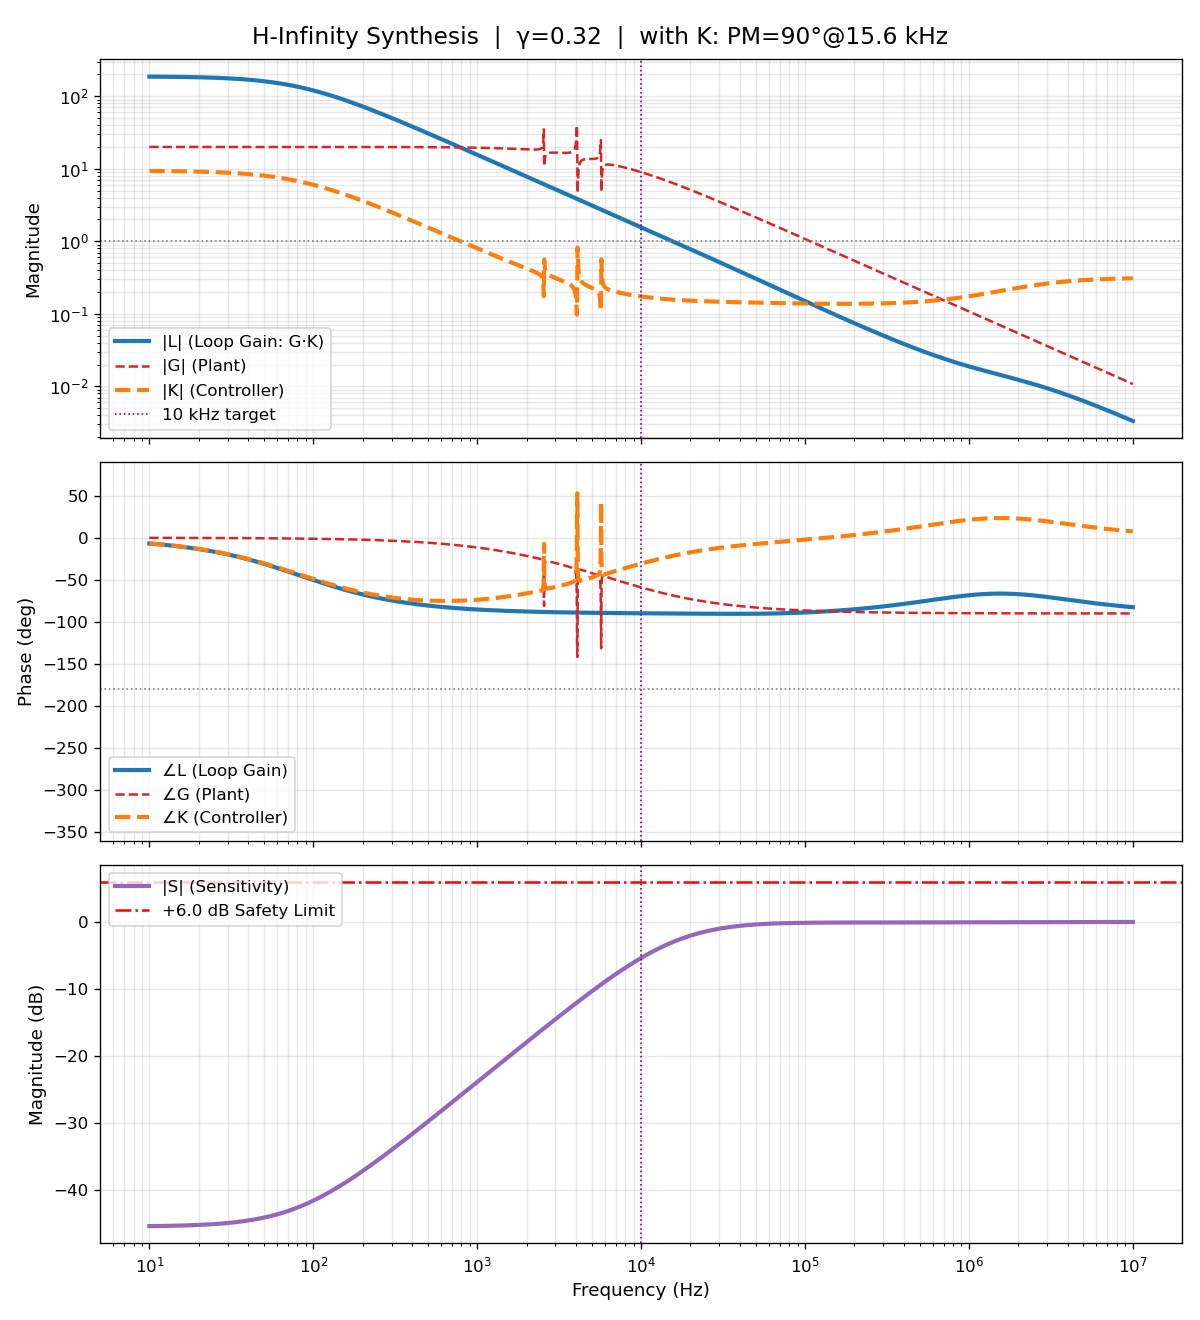
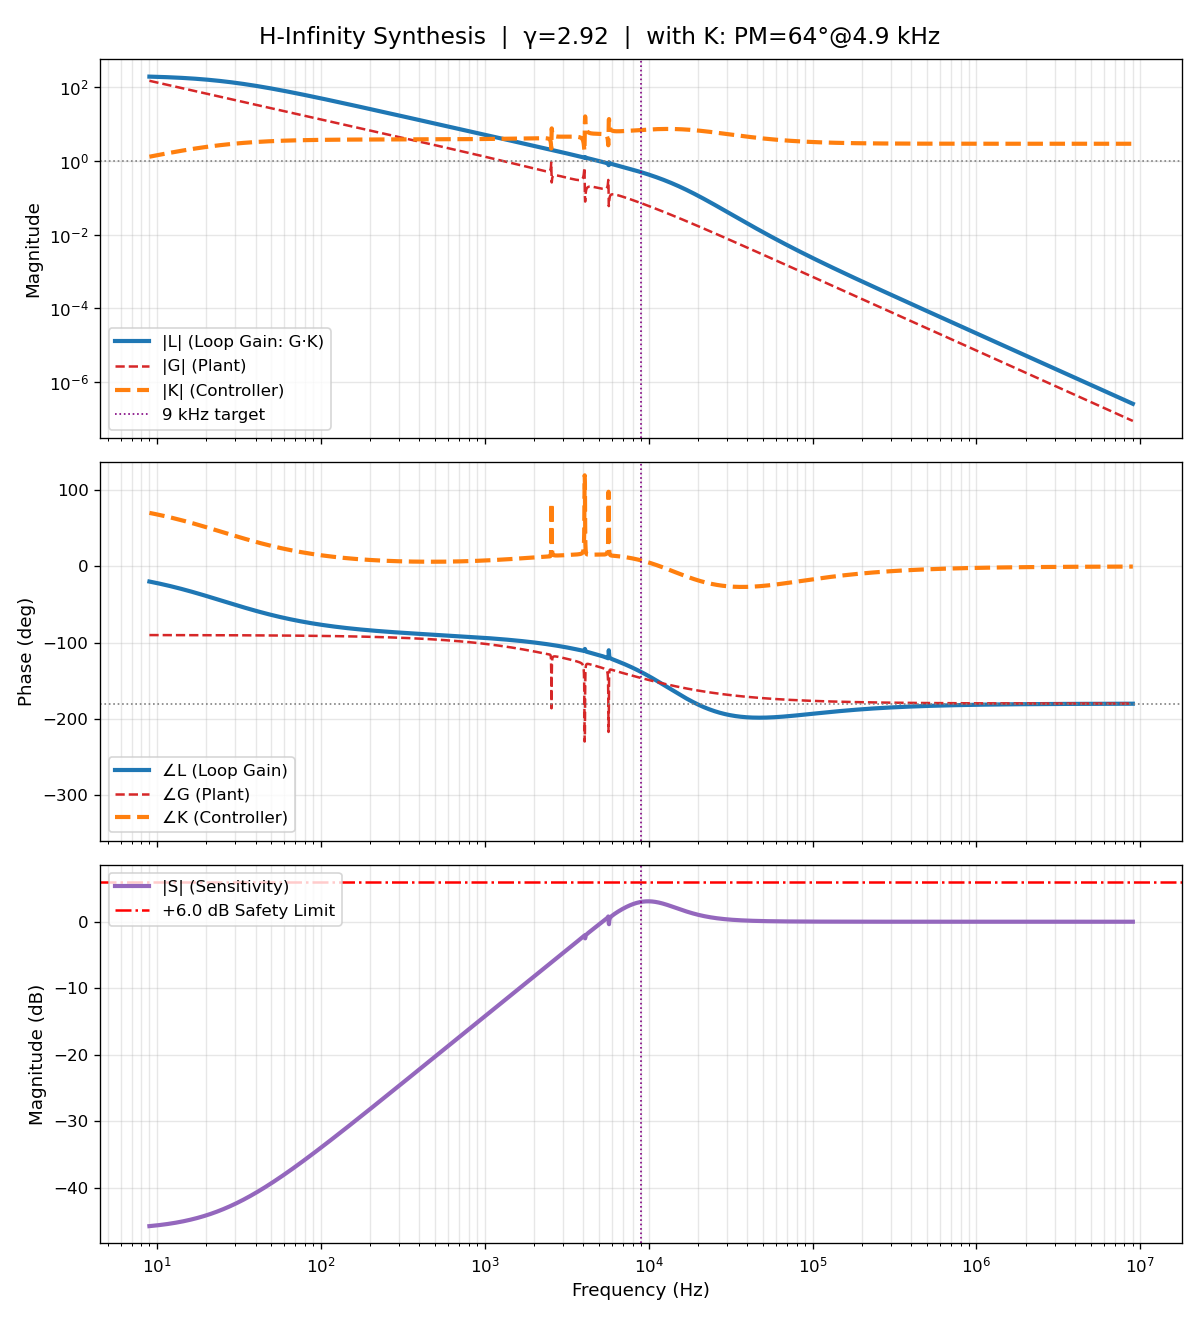
Added back integrating pole

diff --git a/scripts/add_controller.py b/scripts/add_controller.py
@@ -1,0 +1,86 @@
+import numpy as np
+import control as ct
+import matplotlib.pyplot as plt
+from scipy.signal import tf2zpk
+
+def load_plant_zpk(filename):
+    """Loads zeros, poles, and gain from the .npz file."""
+    try:
+        data = np.load(filename)
+        z = data['z']
+        p = data['p']
+        k = data['k']
+        return z, p, k
+    except Exception as e:
+        print(f"Error loading {filename}: {e}")
+        return None, None, None
+
+def main():
+    # 1. Load the measured plant data
+    filename = 'plant_only.npz'
+    z_plant, p_plant, k_plant = load_plant_zpk(filename)
+
+    if z_plant is None:
+        return
+
+    # Convert the raw ZPK data into a control.TransferFunction object
+    plant_sys = ct.zpk(z_plant, p_plant, k_plant)
+    print(f"--- Measured Plant ---")
+    print(plant_sys)
+
+    # 2. Define the Controller Parameters
+    Kp = 0.0       # Set to 0.0 to test the Pure Integrator mode
+    Ki = 51.0
+    epsilon = 1e-2 # Very slow pole to safely approximate a pure integrator
+
+    # 3. Formulate the ZPK based on Kp
+    if Kp == 0:
+        print("\n[Mode: Pure Integrator]")
+        # C(s) = Ki / (s + epsilon)
+        z_ctrl = []            # No zeros
+        p_ctrl = [-epsilon]    # Leaky pole at origin
+        k_ctrl = Ki            # Gain is exactly Ki
+    else:
+        print("\n[Mode: Proportional-Integral]")
+        # C(s) = Kp * (s + Ki/Kp) / (s + epsilon)
+        z_ctrl = [-Ki / Kp]    # Zero at -Ki/Kp
+        p_ctrl = [-epsilon]    # Leaky pole at origin
+        k_ctrl = Kp            # High frequency gain is Kp
+
+    # Build the controller system object
+    ctrl_sys = ct.zpk(z_ctrl, p_ctrl, k_ctrl)
+    print(f"--- Controller Model ---")
+    print(ctrl_sys)
+
+    # 4. Create the Effective Plant for Synthesis
+    # Multiply the transfer functions: P_eff(s) = C(s) * P(s)
+    effective_sys = ct.series(ctrl_sys, plant_sys)
+    print(f"\n--- Effective Plant (Controller * Plant) ---")
+    print(effective_sys)
+
+    num = effective_sys.num[0][0]
+    den = effective_sys.den[0][0]
+
+    z_eff, p_eff, k_eff = tf2zpk(num, den)
+    zeros = np.asarray(z_eff)
+    poles = np.asarray(p_eff)
+    gain = np.asarray(float(np.real(k_eff)))
+
+    output_filename = "plant_with_controller.npz"
+    np.savez(output_filename, z=zeros, p=poles, k=gain)
+    print(f"\nSaved effective plant ZPK to {output_filename}")
+
+    # 5. Visualize the results
+    plt.figure(figsize=(10, 8))
+
+    # Plot Bode for both the raw plant and the effective plant
+    ct.bode_plot([plant_sys, effective_sys],
+                 label=['Bare Plant', f'Effective Plant (Kp={Kp}, Ki={Ki})'],
+                 Hz=True, deg=True, margins=False)
+
+    plt.suptitle("Bode Plot: Bare Plant vs. Effective Plant")
+    plt.legend()
+    plt.show()
+
+if __name__ == "__main__":
+    main()

diff --git a/src/hinf_coeffs.h b/src/hinf_coeffs.h
@@ -1,22 +1,22 @@
 // hinf_coeffs.h — auto-generated by coeffs_analyze.py
-// Q3.29  5 sections  fs=0.9766 MHz  quant err -59.1 dB
+// Q5.27  5 sections  fs=0.9766 MHz  quant err -53.6 dB
 #ifndef HINF_COEFFS_H
 #define HINF_COEFFS_H
 #include <stdint.h>
 
 #define HINF_N_SECTIONS     5
-#define HINF_COEF_INT_BITS  3
-#define HINF_COEF_FRAC_BITS 29
-#define HINF_COEF_SCALE     536870912L
+#define HINF_COEF_INT_BITS  5
+#define HINF_COEF_FRAC_BITS 27
+#define HINF_COEF_SCALE     134217728L
 
 typedef struct { int32_t b0,b1,b2,a1,a2; } hinf_sos_t;
 
 static const hinf_sos_t HINF_SOS[5] = {
-    {   86312795,   -5602313,  -26801296,   81541389, -253401804},
-    {  536870912,-1038863054,  502480658,-1059561305,  522697839},
-    {  536870912,-1072909526,  536757049,-1072927322,  536781967},
-    {  536870912,-1073283254,  536778780,-1073293146,  536794485},
-    {  536870912,-1073560904,  536834585,-1073552977,  536827566}
+    {  430690198, -722845146,  297470385, -249002921,  115844469},
+    {  134217728, -265693130,  131475402, -264938155,  130720986},
+    {  134217728, -268227381,  134189262, -268229747,  134193577},
+    {  134217728, -268320814,  134194695, -268323438,  134198806},
+    {  134217728, -268390226,  134208646, -268388243,  134206890}
 };
 
 #endif

diff --git a/scripts/ctrl.py b/scripts/ctrl.py
@@ -38,6 +38,8 @@ def parse_args():
     p.add_argument("--fs",           type=float, default=125e6/128, help="controller sample rate, Hz")
     p.add_argument("--out",          type=str,   default="K_zpk.npz")
     p.add_argument("--no-show",      action="store_true")
+    p.add_argument("--no-plant-dc-normalize", action="store_true",
+               help="Use plant NPZ gain as-is instead of forcing DC gain to --plant-dc.")
     return p.parse_args()
 
 
@@ -68,9 +70,10 @@ def build_plant(args, w_norm):
         G    = ct.tf([args.plant_dc * wp_n], [1.0, wp_n])
         if args.tau_delay > 0:
             G *= ct.tf([1.0], [args.tau_delay * w_norm, 1.0])
-    natural_dc = float(np.abs(G.dcgain()))
-    if natural_dc > 0:
-        G *= args.plant_dc / natural_dc
+    if not args.no_plant_dc_normalize:
+        natural_dc = float(np.abs(G.dcgain()))
+        if natural_dc > 0:
+            G *= args.plant_dc / natural_dc
     return G
 
 
